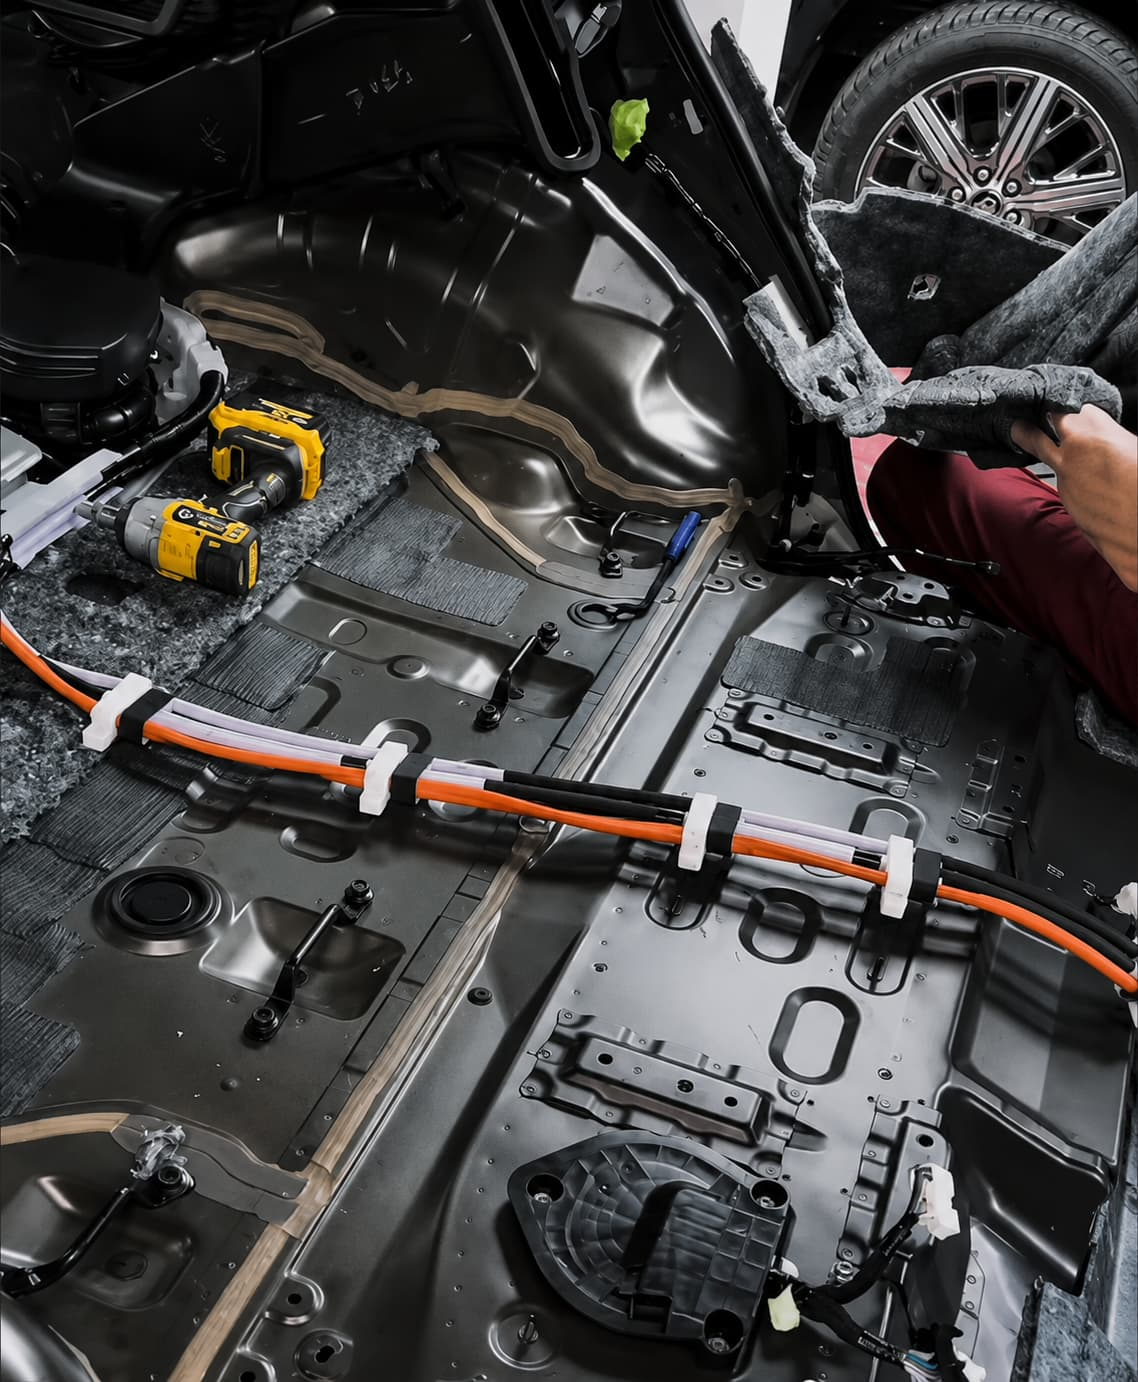
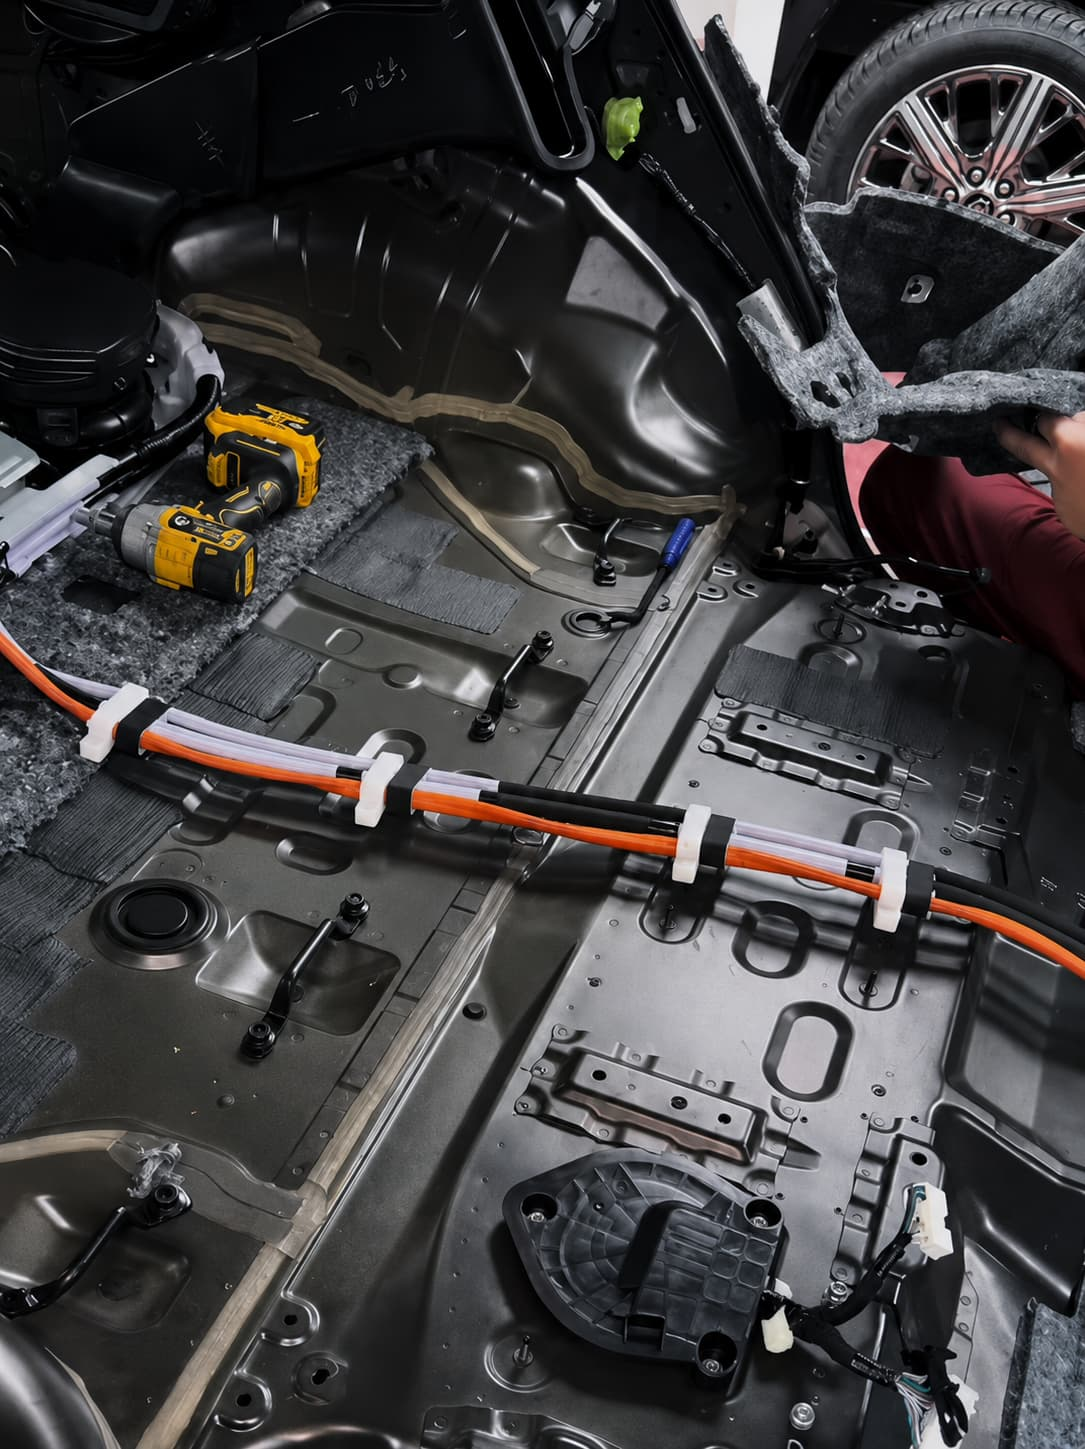
Add posters for videos 5 (0.5s) and 6 (2.4s)

diff --git a/index.html b/index.html
@@ -391,7 +391,7 @@
       <!-- 5. Реставрация кожи -->
       <div class="srv-card srv-card--video" id="leather" data-service="leather">
         <div class="srv-card__img">
-          <video class="srv-card__video" muted loop playsinline>
+          <video class="srv-card__video" muted loop playsinline poster="assets/images/poster_5.jpg" data-preview="0.5">
             <source data-src="assets/media/5.webm" type="video/webm">
           </video>
           <div class="srv-card__overlay"></div>
@@ -418,7 +418,7 @@
       <!-- 6. Дооснащение авто -->
       <div class="srv-card srv-card--video" id="install" data-service="install">
         <div class="srv-card__img">
-          <video class="srv-card__video" muted loop playsinline data-preview="2.5">
+          <video class="srv-card__video" muted loop playsinline poster="assets/images/poster_6.jpg" data-preview="2.4">
             <source data-src="assets/media/6.webm" type="video/webm">
           </video>
           <div class="srv-card__overlay"></div>